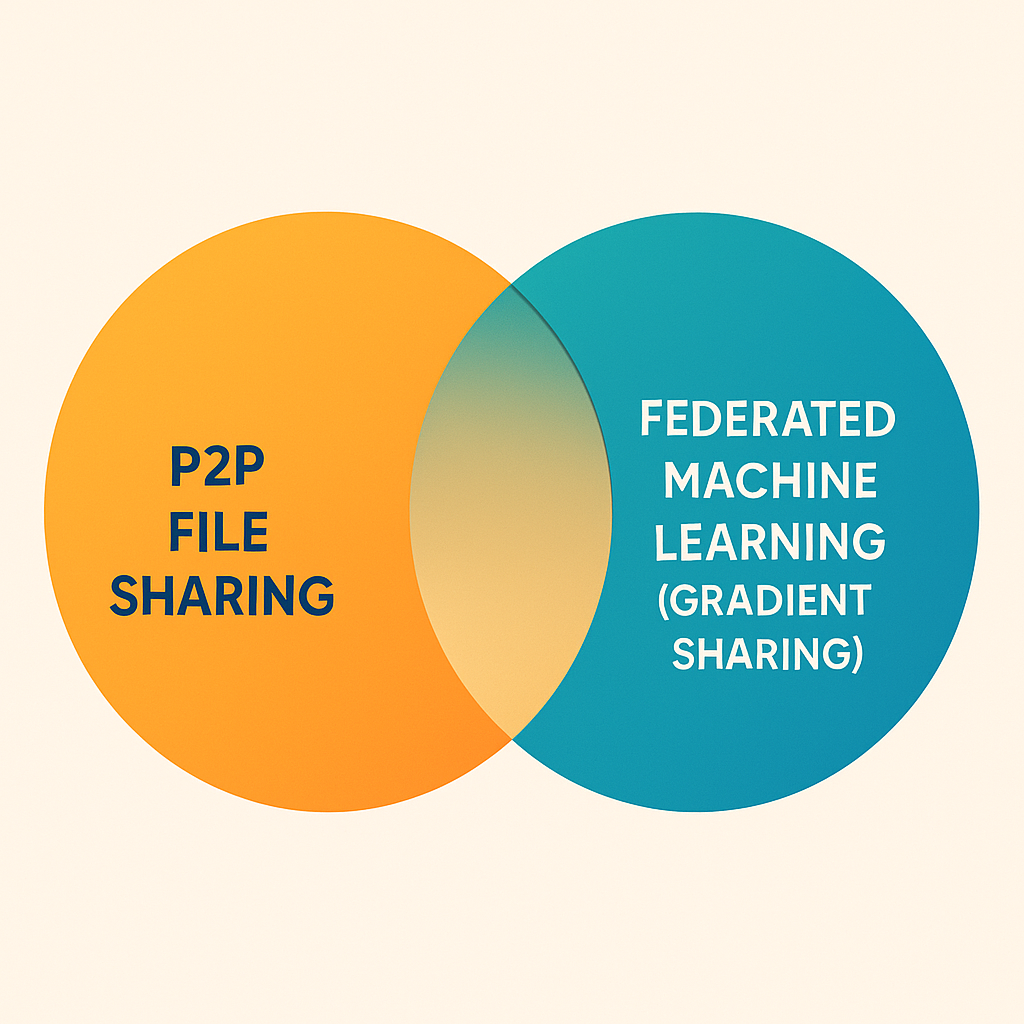
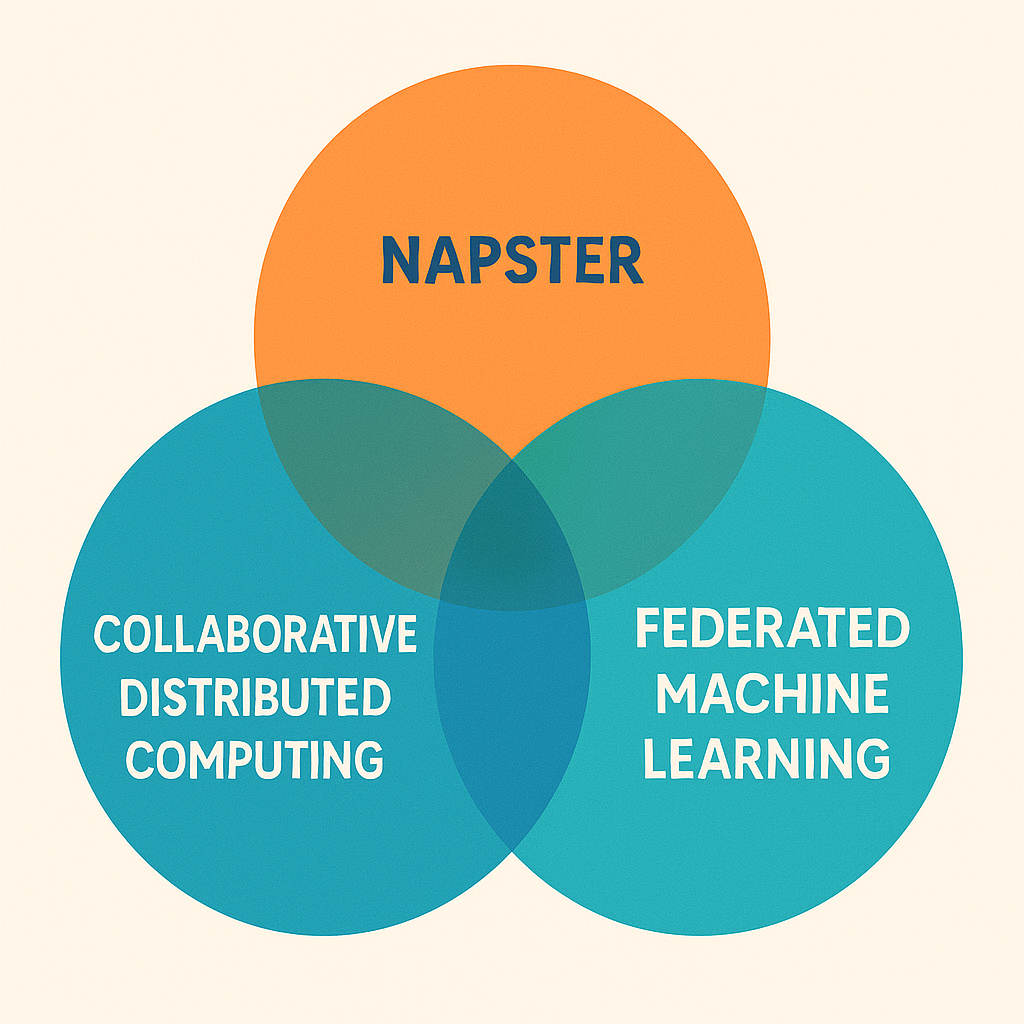
docs

diff --git a/README.md b/README.md
@@ -1,6 +1,6 @@
 # OpenFL
 
-A decentralized federated learning system inspired by P2P file sharing networks like Napster.
+A decentralized federated learning system inspired by P2P file sharing networks like Napster and collaborative computing apps like SETI@home.
 This app enables distributed machine learning across multiple nodes without requiring a central server, while optimizing bandwidth usage through gradient compression techniques.
 Users can train a model for a given machine learning problem with their local data and receive gradient updates from other users of the app to improve their own model.
 
